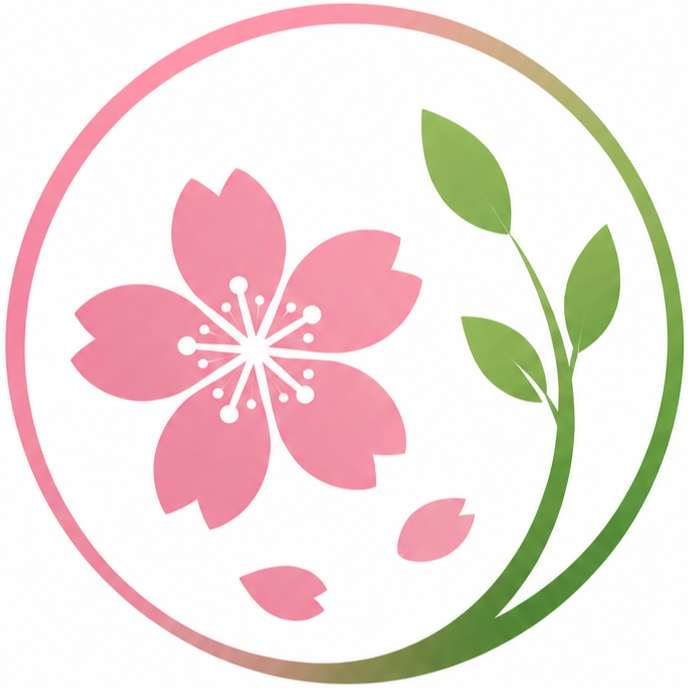
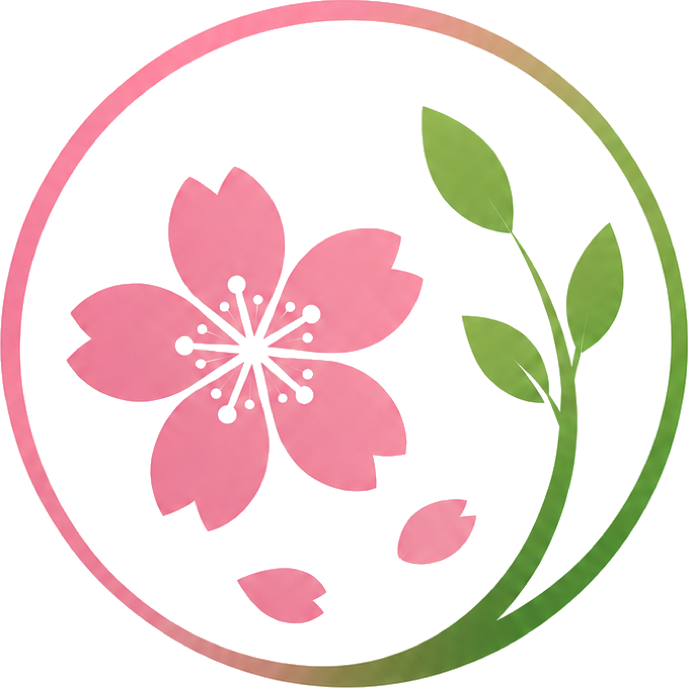
v0.16.0 リリース準備を整える

diff --git a/docs/handoff.md b/docs/handoff.md
@@ -2,13 +2,13 @@
 
 ## Current State
 
-- `hazakura editor` published `v0.15.0` as a warning-expected DMG preview, framed as **User-Test Quality Polish**.
-- `hazakura editor` now has a `v0.14.0` source / local-app tag, framed as **L Mode Stability Ramp / Apple Local Assist Harness Polish**.
-- Version surfaces are aligned at `0.15.0`.
-- Latest published release body: `docs/releases/0.15.0-warning-expected-dmg-preview.release.md`.
+- `hazakura editor` published `v0.15.0` as the latest public warning-expected DMG preview, framed as **User-Test Quality Polish**.
+- `hazakura editor` has a `v0.16.0` warning-expected DMG preview candidate prepared locally, framed as **Per-Surface Font Sizes / L Mode Live Source Quality Follow-up**.
+- Version surfaces are aligned at `0.16.0` across npm, Tauri, Cargo, and lockfile metadata.
+- Candidate release body: `docs/releases/0.16.0-warning-expected-dmg-preview.release.md`.
 - Latest source / local-app tag notes: `docs/releases/0.14.0-source-tag.release.md`.
 - Current status source: `docs/current-status.md`.
-- Active lane: v0.16 L Mode Live Source Quality Follow-up.
+- Active lane: v0.16 warning-expected DMG preview candidate; publication, tag, GitHub Release, and remote verification are still pending explicit approval.
 
 ## Recent Changes
 
@@ -55,6 +55,7 @@
 - `RecoveryMessages` now exposes the message row as an `aria-live="polite"` / `aria-atomic="true"` region. Recovery / conflict / save-error banners are announced to screen readers as they appear, without touching the StatusBar (which keeps its intentional low-information shape in L Mode).
 - `ImagePreviewPane` is now a `<figure role="figure" aria-label="...">` with a `<header>` for the title / file-name block. The existing `.image-preview-pane` / `.image-preview-header` / `.image-preview-stage` CSS classes are unchanged, so the visual stays the same; the DOM now announces which file the preview belongs to when the preview tab is selected. `.image-preview-pane` now carries `margin: 0` so the browser's default `<figure>` margin does not shift the preview away from the editor pane edge.
 - `lModeCursorBoundaryPlugin` (L Mode snap-to-content) now skips its rAF schedule when the incoming `ViewUpdate` carries neither `docChanged` nor `selectionSet`. Viewport-only updates (scroll, focus, measurements) no longer wake a snap rAF, reducing per-frame churn during long Markdown scrolls. The save-image style of the class is unchanged: collapsed-caret snap still runs on doc / selection changes; the new condition only narrows the trigger. Tests cover the no-op, doc-changed, and selection-changed branches.
+- v0.16 release-prep alignment fixed the stale lockfile version, clarified pending-vs-published wording in README/current-status/roadmap/release-pre-check, refreshed the app / README logo assets from the transparent hazakura flower-and-leaf mark, regenerated `src-tauri/icons/icon.icns`, and rebuilt the warning-expected Developer / GitHub DMG from the current candidate.
 
 ## Decisions
 
@@ -100,6 +101,7 @@
 - L Mode Live Source follow-up verification passed on 2026-06-07: regression RED was observed for active-line marker suppression; then `npm run test` (68 files / 487 tests), `npm run build:vite`, `npm run build`, `codesign --verify --deep --strict --verbose=2 "src-tauri/target/release/bundle/macos/hazakura editor.app"`, and `git diff --check` passed. Built-app IME smoke still requires a real app run.
 - L Mode / Preview workspace-image follow-up verification passed on 2026-06-07: focused tests for `markdown.test.ts`, `lMode/extension.test.ts`, and `lMode/imageWidget.test.ts`; full `npm run test` (68 files / 490 tests); `npm run build:vite`; `npm run build`; built-app `codesign --verify --deep --strict --verbose=2`; and `git diff --check`.
 - L Mode draft-recovery banner follow-up verification passed on 2026-06-07: focused RecoveryMessages / DocumentMetaBar / LModeActionRail tests, full `npm run test` (68 files / 491 tests), `npm run build:vite`, `npm run build`, built-app `codesign --verify --deep --strict --verbose=2`, and `git diff --check`.
[1 lines of base64/hex data omitted]
 
 ## Risks / Unknowns
 
@@ -108,10 +110,11 @@
 - In-app Browser / Playwright automation was unavailable during the L Mode drawer / change-review slices, so visual smoke for L Mode floating chrome placement and overlap still needs a real app/browser check.
 - GitHub reported one moderate vulnerability notice during push; `npm audit` still reported 0 vulnerabilities locally.
 - `docs/releases/` still contains historical release-note evidence; this is intentional because release verification can depend on it.
+- v0.16.0 is not tagged, pushed, published, or remotely verified yet. Do not state it as a published release until those steps are explicitly approved and completed.
 
 ## Next Actions
 
-- Before any future publication decision, re-check the latest local gates if code changes again; otherwise use the current release note as the evidence packet.
+- For the v0.16 publication decision, use the current release note and local artifact evidence unless code changes again; if any code, asset, version, or release-note file changes, rerun the affected local gates and regenerate the DMG before tagging.
 - For v0.15 work, start from `docs/current-status.md`, `docs/roadmap.md`, and `docs/development-automation.md`. Pick one user-test friction point, verify it, and keep the patch small.
 - For Apple Local Assist work inside v0.15, start from `docs/apple-local-assist-writing-companion-plan.md`. Keep Apple Local Assist detachable, prioritize real lightweight writing examples / unavailable states / rough requests, and use AI edit transactions rather than hidden or irreversible applies.
 - For theme/settings polish inside v0.15, verify persistence, native menu/window theme synchronization, readability, and restart-required copy before spending time on purely cosmetic variants.

diff --git a/docs/current-status.md b/docs/current-status.md
@@ -8,9 +8,9 @@ Last reviewed: 2026-06-08
 ## Current State
 
 - `hazakura editor` is a touchable Tauri desktop app for Markdown-first safe text editing.
-- Current warning-expected DMG preview tag is `v0.16.0`.
+- Intended warning-expected DMG preview tag is `v0.16.0` (not published yet).
 - Current package/app version is `0.16.0` across npm, Tauri, Cargo, and lockfile metadata.
-- Current published downloadable preview target: `v0.16.0` (publication pending; see v0.16.0 release notes).
+- Intended downloadable preview target: `v0.16.0` (publication pending; see v0.16.0 release notes).
 - v0.11.0 is the **L Mode WYSIWYG-tier Polish** preview: it keeps Markdown source canonical while rendering inline emphasis, strong, strike, links, inline code, task checkboxes, horizontal rules, tables, blockquotes, code blocks, ordered/bullet lists, and images as a document-like writing surface through CodeMirror display decoration.
 - v0.11.0 also includes auto-backup restore through an explicit backup-vs-buffer diff/apply flow, hash-based pasted-image deduplication, export CSS parity with Preview, workspace path rekey hardening, common text-extension save filters, and a native View menu L Mode toggle.
[1 lines of base64/hex data omitted]
@@ -27,8 +27,8 @@ Last reviewed: 2026-06-08
 - v0.15.0 is the **User-Test Quality Polish** warning-expected DMG preview: it closes the post-user-test polish loop with stale-state hardening, L Mode lightness, Apple Local Assist rough-request / stale-candidate polish, settings/theme clarity, and save/recovery robustness. It publishes an Apple Silicon Developer / GitHub lane DMG for cross-machine testing, but remains ad-hoc signed and not notarized.
[1 lines of base64/hex data omitted]
 - v0.15.0 GitHub Release assets were re-downloaded into a fresh temp directory after publication and passed checksum, `hdiutil verify`, mounted-app metadata, and `codesign --verify --deep --strict --verbose=2`.
-- v0.16.0 is the **Per-Surface Font Sizes (v0.16 L Mode Live Source Quality Follow-up)** warning-expected DMG preview. The first slice of the v0.16 lane is settings / theme polish: the font size preference is split into per-surface values for the editor / preview / workspace / L Mode surfaces, the workspace tree CSS is re-anchored so the slider actually changes every text-bearing element, and Chromium / WebKit's `-webkit-small-control` button reset is added so the file tree base size is no longer silently blocked.
-- v0.16.0 local release gates and warning-expected DMG preview verification: _to be recorded after the local gate run completes_.
+- v0.16.0 is the **Per-Surface Font Sizes (v0.16 L Mode Live Source Quality Follow-up)** warning-expected DMG preview. The first slice of the v0.16 lane is settings / theme polish: the font size preference is split into per-surface values for the editor / preview / workspace / L Mode surfaces, the workspace tree CSS is re-anchored so the slider actually changes every text-bearing element, and Chromium / WebKit's `-webkit-small-control` button reset is added so the file tree base size is no longer silently blocked. The release-prep pass also refreshes the app / README logo assets with the transparent hazakura flower-and-leaf mark and keeps the later IPC status-feedback polish in the v0.16 candidate.
[1 lines of base64/hex data omitted]
 - v0.16.0 GitHub Release publication and remote verification: _pending; do not assert publication until the user explicitly approves the warning-expected binary asset_.
 - Post-v0.16 work should move into a v0.17 **Distribution Prep** lane, then a v0.17 **Release Polish** lane for final release-facing touch-ups.
 - Older public tags remain immutable.
@@ -124,11 +124,11 @@ The DMG uses the Developer / GitHub lane (`hazakura editor Dev.app`, `lab.hazaku
 
 ## v0.16.0 Per-Surface Font Sizes warning-expected DMG preview
 
-v0.16.0 is the first source / settings polish slice in the v0.16 L Mode Live Source Quality Follow-up lane. The release is not the lane's full L Mode guardrail sweep (table / checkbox / code-fence / quote / image / IME work), it is the user-facing settings / theme polish slice that the lane has absorbed: the font size preference is split into per-surface values for the editor / preview / workspace / L Mode surfaces, the workspace tree CSS is re-anchored so every text-bearing element inside the tree pane (file names, folder names, the WORKSPACE kicker, the New File / New Folder popover, the empty-state Open Folder button, the rename input, and the tree-partial note) actually scales with the slider, and Chromium / WebKit's `-webkit-small-control` button reset is added so the file tree base size is no longer silently blocked. Markdown source stays canonical, L Mode still renders through CodeMirror decorations, the saved document model is unchanged, and there is no Preview DOM editing / `contenteditable` / hidden save-time rewriting.
+v0.16.0 is the first source / settings polish slice in the v0.16 L Mode Live Source Quality Follow-up lane. The release is not the lane's full L Mode guardrail sweep (table / checkbox / code-fence / quote / image / IME work), it is the user-facing settings / theme polish slice that the lane has absorbed: the font size preference is split into per-surface values for the editor / preview / workspace / L Mode surfaces, the workspace tree CSS is re-anchored so every text-bearing element inside the tree pane (file names, folder names, the WORKSPACE kicker, the New File / New Folder popover, the empty-state Open Folder button, the rename input, and the tree-partial note) actually scales with the slider, and Chromium / WebKit's `-webkit-small-control` button reset is added so the file tree base size is no longer silently blocked. The release-prep pass also refreshes the app / README logo assets with the transparent hazakura flower-and-leaf mark and keeps the later IPC status-feedback polish in the v0.16 candidate. Markdown source stays canonical, L Mode still renders through CodeMirror decorations, the saved document model is unchanged, and there is no Preview DOM editing / `contenteditable` / hidden save-time rewriting.
 
 Like v0.15.0, the v0.16.0 DMG uses the Developer / GitHub lane (`hazakura editor Dev.app`, `lab.hazakura.note.dev`) so Agent Workbench remains available for preview users. It is ad-hoc signed, not Developer ID signed, not notarized, and should be treated as a hands-on preview artifact rather than a trusted distribution.
 
[2 lines of base64/hex data omitted]
 
 v0.16.0 GitHub Release publication and remote verification:
 

diff --git a/docs/release-pre-check.md b/docs/release-pre-check.md
@@ -51,7 +51,7 @@ git diff <previous-tag>..<release-candidate-head> -- docs/ src/ | \
 
 ```bash
 git diff <previous-tag>..<release-candidate-head> | \
-  grep -iE "^\+.*(TODO|FIXME|XXX|HACK|developer note|internal-only|not for review|keisetsu|lero003)" | \
+  grep -E "^\+.*(\\b(TODO|FIXME|XXX|HACK)\\b|developer note|internal-only|not for review|keisetsu|lero003)" | \
   head -20
 ```
 
@@ -61,7 +61,7 @@ Expected: empty for source / docs files. References to the public repository nam
 
 ```bash
 git diff <previous-tag>..<release-candidate-head> | \
-  grep -iE "^\+.*(api[_-]?key|secret|token|password|passwd|bearer|aws[_-]|private[_-]?key|BEGIN [A-Z]+ PRIVATE|192\.168\.|10\.[0-9]+\.|172\.(1[6-9]|2[0-9]|3[01])\.|internal\.|corp\.|localhost:[0-9])" | \
+  grep -iE "^\+.*(api[_-]?key|secret|\\btoken\\b|password|passwd|bearer|aws[_-]|private[_-]?key|BEGIN [A-Z]+ PRIVATE|192\.168\.|10\.[0-9]+\.|172\.(1[6-9]|2[0-9]|3[01])\.|internal\.|corp\.|localhost:[0-9])" | \
   head -20
 ```
 
@@ -97,13 +97,13 @@ When a stop condition fires, fix the issue in the release-candidate worktree and
 
 ## Last Run: v0.16.0 (2026-06-08)
 
-Range: `06b05819..15eb8546` (3 commits, the v0.16.0 フォントサイズ 4 値分割 + タグ付け準備 + ゲート evidence 反映 slice).
+Range: `v0.15.0..HEAD` (v0.16.0 L Mode Live Source quality follow-up + per-surface font sizes + release-prep alignment slice).
 
 Result:
 
-- Section 1 (local paths in diff): **empty**. No `/Users/`, `/tmp/`, `/var/folders/`, or other machine-specific path was added.
-- Section 2 (inappropriate GitHub content in diff): **empty**. No new personal names, organization paths, or developer scratch notes were added. Public `lero003/hazakura-editor` references are unchanged from previous releases.
-- Section 3 (security concerns in diff): **empty**. No tokens, API keys, passwords, private keys, internal IPs, or internal hostnames were added.
+- Section 1 (local paths in diff): hits were limited to this checklist's own example patterns and its historical-audit note. No product code, release note, README, or runtime path gained a new machine-specific path.
+- Section 2 (inappropriate GitHub content in diff): hits were limited to this checklist's own grep examples and public repository references in release evidence. No new developer scratch note or private organization wording was added.
+- Section 3 (security concerns in diff): hits were limited to this checklist's own grep examples. No token, API key, password, private key, internal IP, or internal hostname was added.
 - Section 4 (whole-repo audit): the long-lived entries under `docs/archive/` (e.g. `docs/handoff.md`, `docs/source-release-checklist.md`, and past `docs/releases/0.x.0-*.release.md`) still contain `/Users/keisetsu/...` and `/tmp/hazakura-note-...` references from previous smoke runs. They are accepted as historical release evidence and are not in this checklist's scope for v0.16.0. A future `docs/` archive tidy-up slice can normalize those references to anonymous paths if desired, but it is not a v0.16.0 release blocker.
 
 DMG and source files referenced in v0.16.0 (`src-tauri/target/release/bundle/dmg/hazakura-editor-dev_0.16.0_aarch64-warning-expected.dmg` and `*.dmg.sha256`) are build outputs under `src-tauri/target/`, which is `.gitignore`d. The DMG and SHA-256 will be attached to the GitHub Release as release assets, not committed to the repository.

diff --git a/docs/releases/0.16.0-warning-expected-dmg-preview.release.md b/docs/releases/0.16.0-warning-expected-dmg-preview.release.md
@@ -4,7 +4,9 @@
 
 v0.16.0 is the first source / settings polish slice in the v0.16 **L Mode Live Source Quality Follow-up** lane. The focus is small but real user-facing friction: the font size preference used to apply to the editor pane only, and the workspace file tree looked unchanged even after the user raised the workspace slider. v0.16.0 splits the single `fontSize` preference into four per-surface values (editor / preview / workspace / L Mode), wires them through `:root` CSS custom properties, and rewires the workspace tree CSS so every text-bearing element inside the tree pane (file names, folder names, the `WORKSPACE` kicker, the New File / New Folder popover, the empty-state Open Folder button, the rename input, and the tree-partial note) actually scales with the slider.
 
-The boundary of the lane is unchanged: Markdown source remains canonical, L Mode still renders through CodeMirror decorations, no Preview DOM editing, no `contenteditable`, no hidden save-time rewriting, no network fallback, no auto-apply, no provider plugins. The change is presentation-only, fully reversible, and does not touch the saved document model.
+The release-prep pass also refreshes the app / README logo assets with the transparent hazakura flower-and-leaf mark and keeps the later IPC status-feedback polish in the v0.16 candidate.
+
+The boundary of the lane is unchanged: Markdown source remains canonical, L Mode still renders through CodeMirror decorations, no Preview DOM editing, no `contenteditable`, no hidden save-time rewriting, no network fallback, no auto-apply, no provider plugins. The font-size change is presentation-only, fully reversible, and does not touch the saved document model.
 
 This is a warning-expected macOS DMG preview. The app is ad-hoc signed and not notarized, so Gatekeeper warnings are expected.
 
@@ -54,7 +56,9 @@ The Developer / GitHub lane keeps Agent Workbench available and uses bundle iden
 
 ### Other
 
-- No other behavior change. Save / recovery, Apple Local Assist, Review Desk, L Mode editing, Diff, and Recovery Review are unchanged for this checkpoint.
+- Refreshes the app bundle icon, start-panel mark, and README logo to the transparent hazakura flower-and-leaf logo.
+- Adds user-visible status feedback for two listener-registration failures that were previously console-only: window drag-drop listener setup and Apple Local Assist apply-status listener setup.
+- Save / recovery, Apple Local Assist generation, Review Desk, L Mode editing, Diff, and Recovery Review are otherwise unchanged for this checkpoint.
 
 ## Release Boundary
 
@@ -142,7 +146,7 @@ Passed on 2026-06-08.
 DMG SHA-256:
 
 ```txt
[2 lines of base64/hex data omitted]
 ```
 
 ## Remote Verification Result

diff --git a/docs/roadmap.md b/docs/roadmap.md
@@ -3,7 +3,7 @@
 Status: Operational
 Scope: Active release lane and future planning boundaries
 Authority: Medium
-Last reviewed: 2026-06-07 (v0.15 DMG preview / v0.16 L Mode Live Source follow-up framing)
+Last reviewed: 2026-06-08 (v0.16 warning-expected DMG preview candidate alignment)
 
 ## Current Position
 
@@ -13,9 +13,9 @@ Current release state:
 
 - Latest published preview: `v0.15.0` warning-expected DMG preview.
 - Latest source / local-app-only tag: `v0.14.0`.
-- Current package/app version: `0.15.0`.
-- v0.15.0 theme: **User-Test Quality Polish**.
-- Active lane: v0.16 L Mode Live Source Quality Follow-up.
+- Current package/app version: `0.16.0`.
+- v0.16.0 candidate theme: **Per-Surface Font Sizes / L Mode Live Source Quality Follow-up**.
+- Active lane: v0.16 warning-expected DMG preview candidate, then v0.17 Distribution Prep after publication.
 - Active product polish direction: stabilize the larger post-v0.15 L Mode Live Source work before entering certificate / distribution prep. Markdown source remains canonical; L Mode may improve presentation, guarded keyboard behavior, and smoke coverage, but not the saved document model.
 
 Historical phase details and old milestone text are archived in `docs/archive/roadmaps/roadmap-through-v0.10-doc-refactor.md` and `docs/archive/roadmaps/roadmap-v0.1-archived.md`.

diff --git a/README.md b/README.md
@@ -196,7 +196,7 @@ Use `npm ci` when evaluating the source preview from the committed lockfile. Use
 Developer preview release boundary:
 
 - Current package/app version is `0.16.0` across npm, Tauri, Cargo, and lockfile metadata.
-- The current warning-expected DMG preview tag is `v0.16.0`; its release-note evidence lives in [0.16.0 Warning-expected DMG Preview](docs/releases/0.16.0-warning-expected-dmg-preview.release.md).
+- The intended warning-expected DMG preview tag is `v0.16.0`; its release-note evidence lives in [0.16.0 Warning-expected DMG Preview](docs/releases/0.16.0-warning-expected-dmg-preview.release.md).
 - Source users build locally with `npm ci` and `npm run build`.
 - The generated local `.app` declares macOS 11.0 or later, matching the Rust binary's minimum deployment target, and is ad-hoc signed for local build validation. Apple Local Assist's bundled helper requires macOS 26+ and local Apple Intelligence availability to return live candidates. The app is not Developer ID signed or notarized.
 - The latest published warning-expected DMG preview is [v0.15.0](https://github.com/lero003/hazakura-editor/releases/tag/v0.15.0). The v0.15.0 release notes live in [0.15.0 Warning-expected DMG Preview](docs/releases/0.15.0-warning-expected-dmg-preview.release.md).